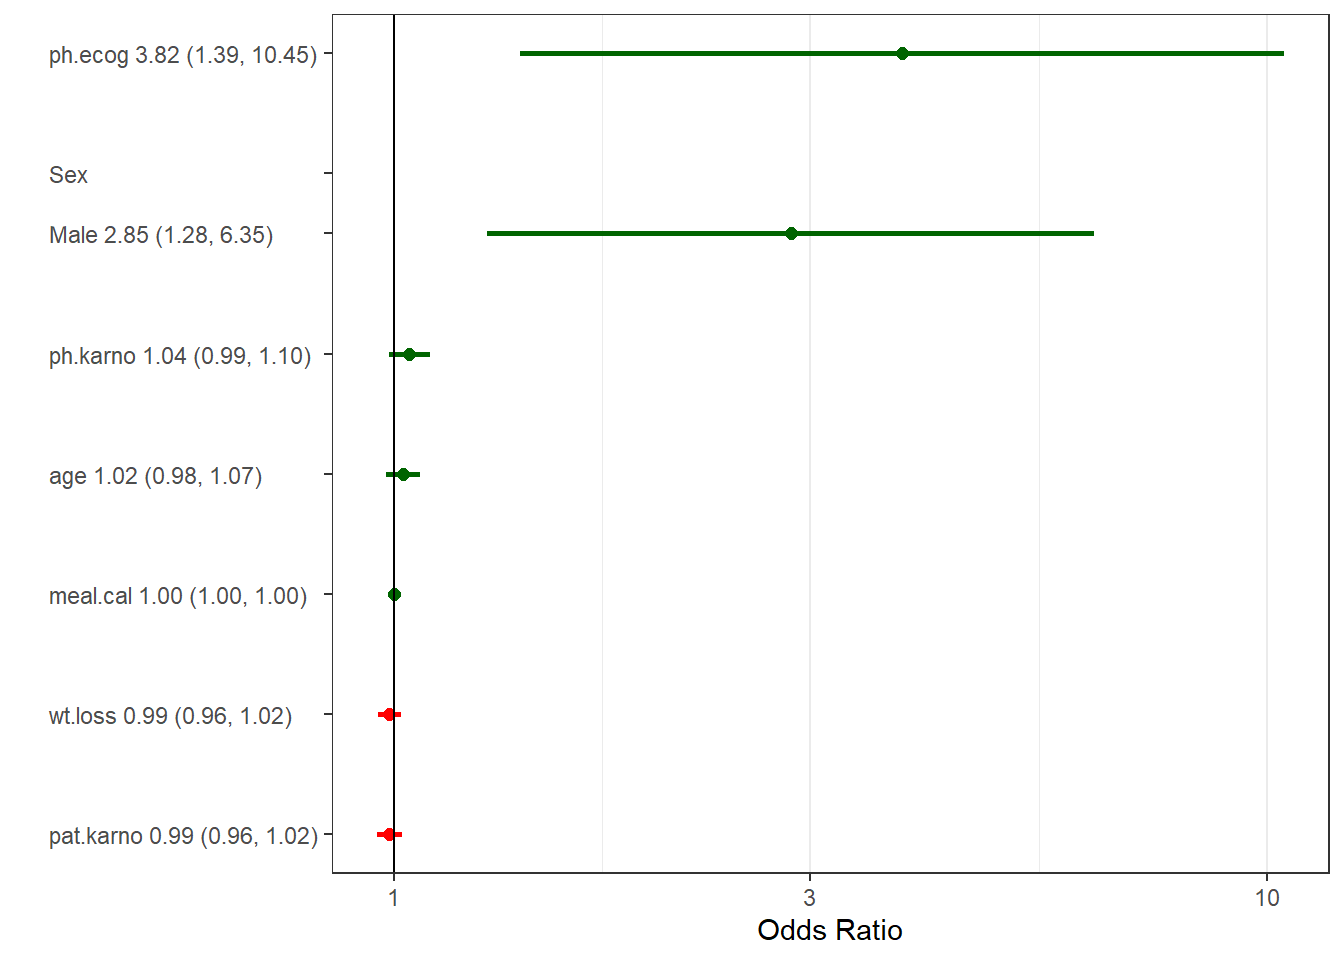
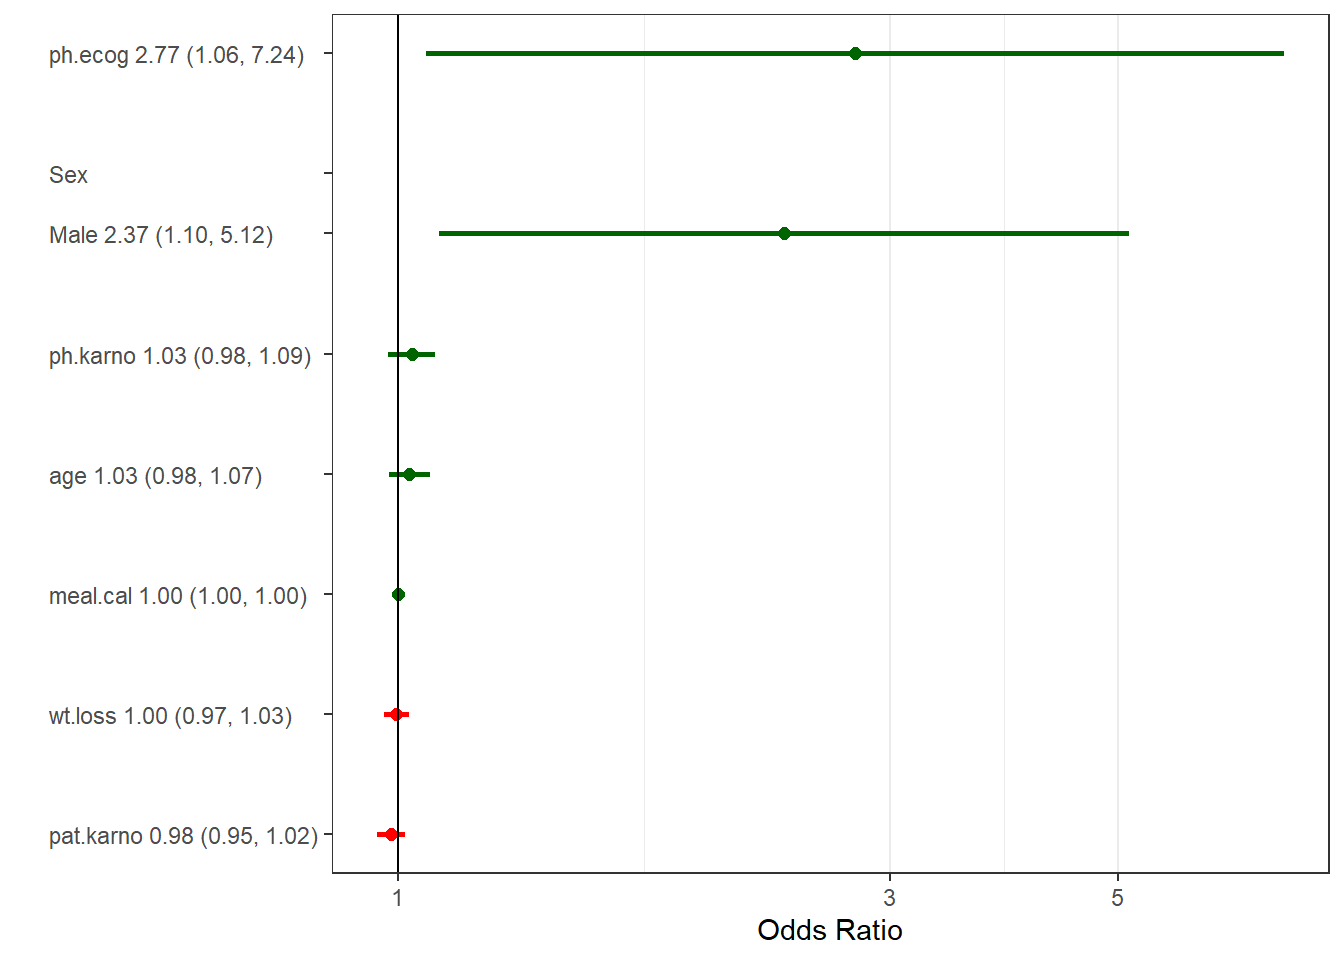
..fixed induced error

diff --git a/docs/citations.html b/docs/citations.html
@@ -196,9 +196,11 @@ code span.wa { color: #60a0b0; font-weight: bold; font-style: italic; } /* Warni
             <section class="normal" id="section-">
 <div id="citations" class="section level2" number="2.12">
 <h2><span class="header-section-number">2.12</span> Citations</h2>
-<p>To add citations use <code>[@bibindex]</code>. For example <code>[@Ensor2014]</code> will produce a citation in the document like this: <span class="citation">(<a href="#ref-Ensor2014" role="doc-biblioref"><strong>Ensor2014?</strong></a>)</span>, and will be added to the bibliography with the following entry:</p>
-<div id="refs">
-
+<p>To add citations use <code>[@bibindex]</code>. For example <code>[@Ensor2014]</code> will produce a citation in the document like this: <span class="citation">(<a href="citations.html#ref-Ensor2014" role="doc-biblioref">1</a>)</span>, and will be added to the bibliography with the following entry:</p>
+<div id="refs" class="references csl-bib-body">
+<div id="ref-Ensor2014" class="csl-entry">
+<div class="csl-left-margin">1. </div><div class="csl-right-inline">Ensor JE. Biomarker validation: Common data analysis concerns. The Oncologist. 2014;19(8):886–91. </div>
+</div>
 </div>
 <p>`</p>
 <p>R packages can be referenced like this: <code>[@R-reportRx]</code> and R like this: <code>[@R-base]</code>. To cite more than one article or package separate them with semicolons: <code>[@R-base;@R-reportRx]</code>.</p>

diff --git a/docs/covsum.html b/docs/covsum.html
@@ -251,13 +251,13 @@ Status
 63
 </td>
 <td style="text-align:right;">
-34 (54)
+36 (57)
 </td>
 <td style="text-align:right;">
-24 (38)
+26 (41)
 </td>
 <td style="text-align:right;">
-5 (8)
+1 (2)
 </td>
 </tr>
 <tr>
@@ -268,13 +268,13 @@ Status
 165
 </td>
 <td style="text-align:right;">
-52 (32)
+50 (30)
 </td>
 <td style="text-align:right;">
-108 (65)
+106 (64)
 </td>
 <td style="text-align:right;">
-5 (3)
+9 (5)
 </td>
 </tr>
 <tr>
@@ -298,13 +298,13 @@ Mean (sd)
 9.83 (13.14)
 </td>
 <td style="text-align:right;">
-7.66 (13.05)
+8.18 (13.36)
 </td>
 <td style="text-align:right;">
-11.11 (13.13)
+11.19 (13.10)
 </td>
 <td style="text-align:right;">
-12.10 (12.87)
+6.80 (10.52)
 </td>
 </tr>
 <tr>
@@ -315,13 +315,13 @@ Median (Q1,Q3)
 7.00 (0.00,15.75)
 </td>
 <td style="text-align:right;">
-4 (0,11)
+4.50 (0.00,12.50)
 </td>
 <td style="text-align:right;">
-8 (0,18)
+8.00 (0.25,18.00)
 </td>
 <td style="text-align:right;">
-11.00 (3.25,22.25)
+1.50 (0.00,14.00)
 </td>
 </tr>
 <tr>
@@ -338,7 +338,7 @@ Range (min, max)
 (-13,68)
 </td>
 <td style="text-align:right;">
-(-10,30)
+(-3,27)
 </td>
 </tr>
 <tr>

diff --git a/docs/mvsum.html b/docs/mvsum.html
@@ -219,21 +219,21 @@ Global p-value
 Sex
 </td>
 <td style="text-align:right;font-weight: bold;">
-2.96 (1.55,5.63)
+2.89 (1.54,5.42)
 </td>
 <td style="text-align:right;font-weight: bold;">
 &lt;0.001
 </td>
 </tr>
 <tr>
-<td style="text-align:left;">
+<td style="text-align:left;font-weight: bold;">
 age
 </td>
-<td style="text-align:right;">
-1.03 (1.00,1.07)
+<td style="text-align:right;font-weight: bold;">
+1.04 (1.00,1.07)
 </td>
-<td style="text-align:right;">
-0.07
+<td style="text-align:right;font-weight: bold;">
+0.037
 </td>
 </tr>
 <tr>
@@ -241,10 +241,10 @@ age
 wt loss
 </td>
 <td style="text-align:right;">
-1.00 (0.97,1.02)
+1.00 (0.98,1.02)
 </td>
 <td style="text-align:right;">
-0.77
+0.92
 </td>
 </tr>
 </tbody>

diff --git a/docs/why-use-r-markdown-instead-of-sweave.html b/docs/why-use-r-markdown-instead-of-sweave.html
@@ -206,7 +206,7 @@ code span.wa { color: #60a0b0; font-weight: bold; font-style: italic; } /* Warni
 <li><p>the <a href="https://shiny.rstudio.com/xar">Shiny</a> package is great for interactive statistics and graphs</p></li>
 <li><p><a href="https://alison.rbind.io/post/new-year-new-blogdown/">Blogdown</a> for producing websites</p></li>
 <li><p>OpenDocuments, html &amp; pdf slide presentations, lecture handouts <a href="https://rmarkdown.rstudio.com/lesson-9.html">read here for more information</a></p>
-<p>▶ If you know Sweave, picking up Markdown is easy!</p></li>
+<p>⏯ If you know Sweave, picking up Markdown is easy!</p></li>
 </ul>
 </div>
             </section>

diff --git a/docs/outtable.html b/docs/outtable.html
@@ -235,13 +235,13 @@ NA_
 0
 </td>
 <td style="text-align:right;">
-34
+36
 </td>
 <td style="text-align:right;">
-24
+26
 </td>
 <td style="text-align:right;">
-5
+1
 </td>
 </tr>
 <tr>
@@ -249,13 +249,13 @@ NA_
 1
 </td>
 <td style="text-align:right;font-weight: bold;">
-52
+50
 </td>
 <td style="text-align:right;font-weight: bold;">
-108
+106
 </td>
 <td style="text-align:right;font-weight: bold;">
-5
+9
 </td>
 </tr>
 </tbody>

diff --git a/docs/uvsum.html b/docs/uvsum.html
@@ -267,7 +267,7 @@ Reference
 Male
 </td>
 <td style="text-align:right;">
-2.94 (1.75,4.94)
+2.94 (1.76,4.88)
 </td>
 <td style="text-align:right;">
 </td>
